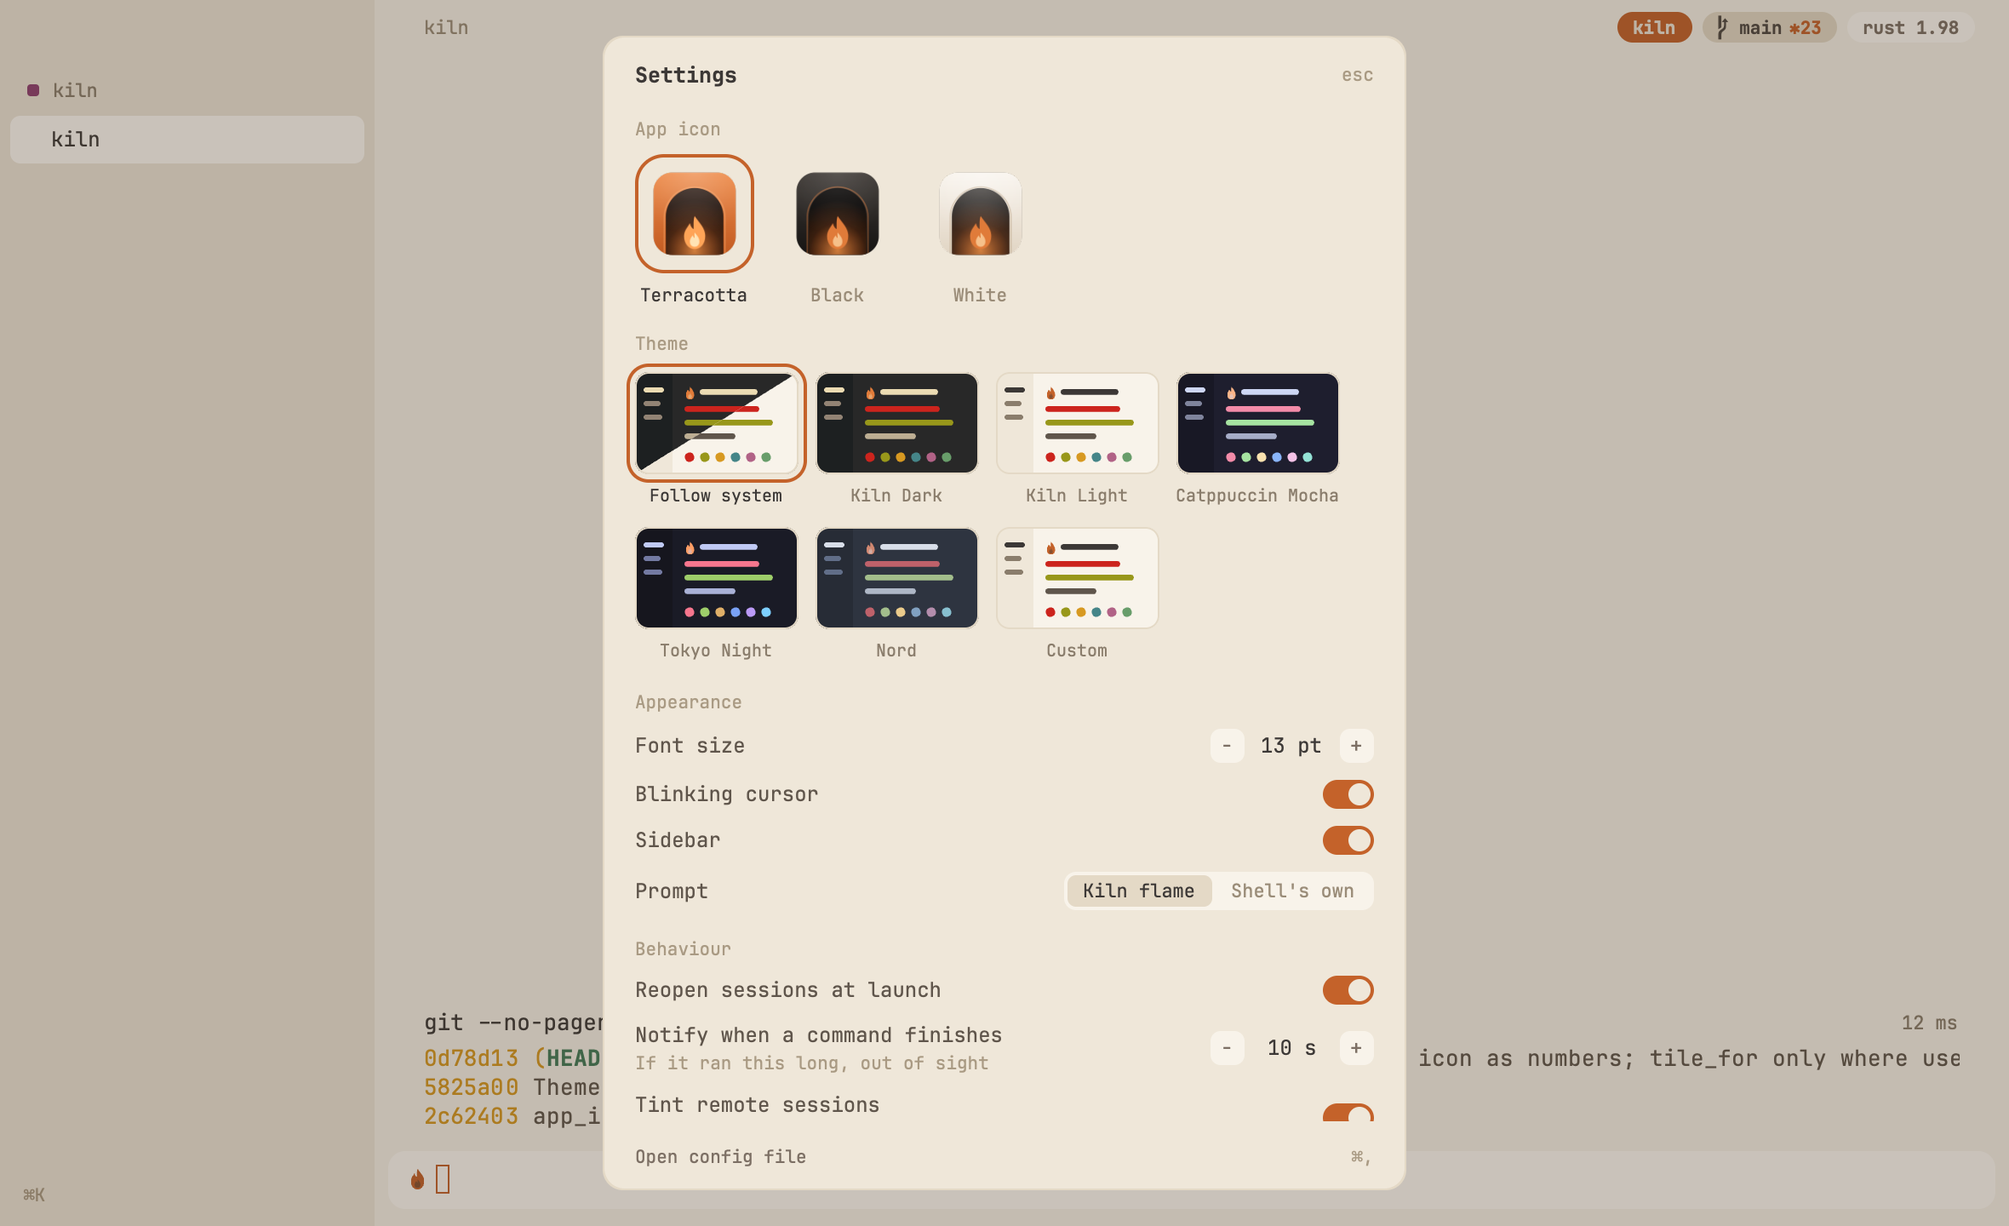
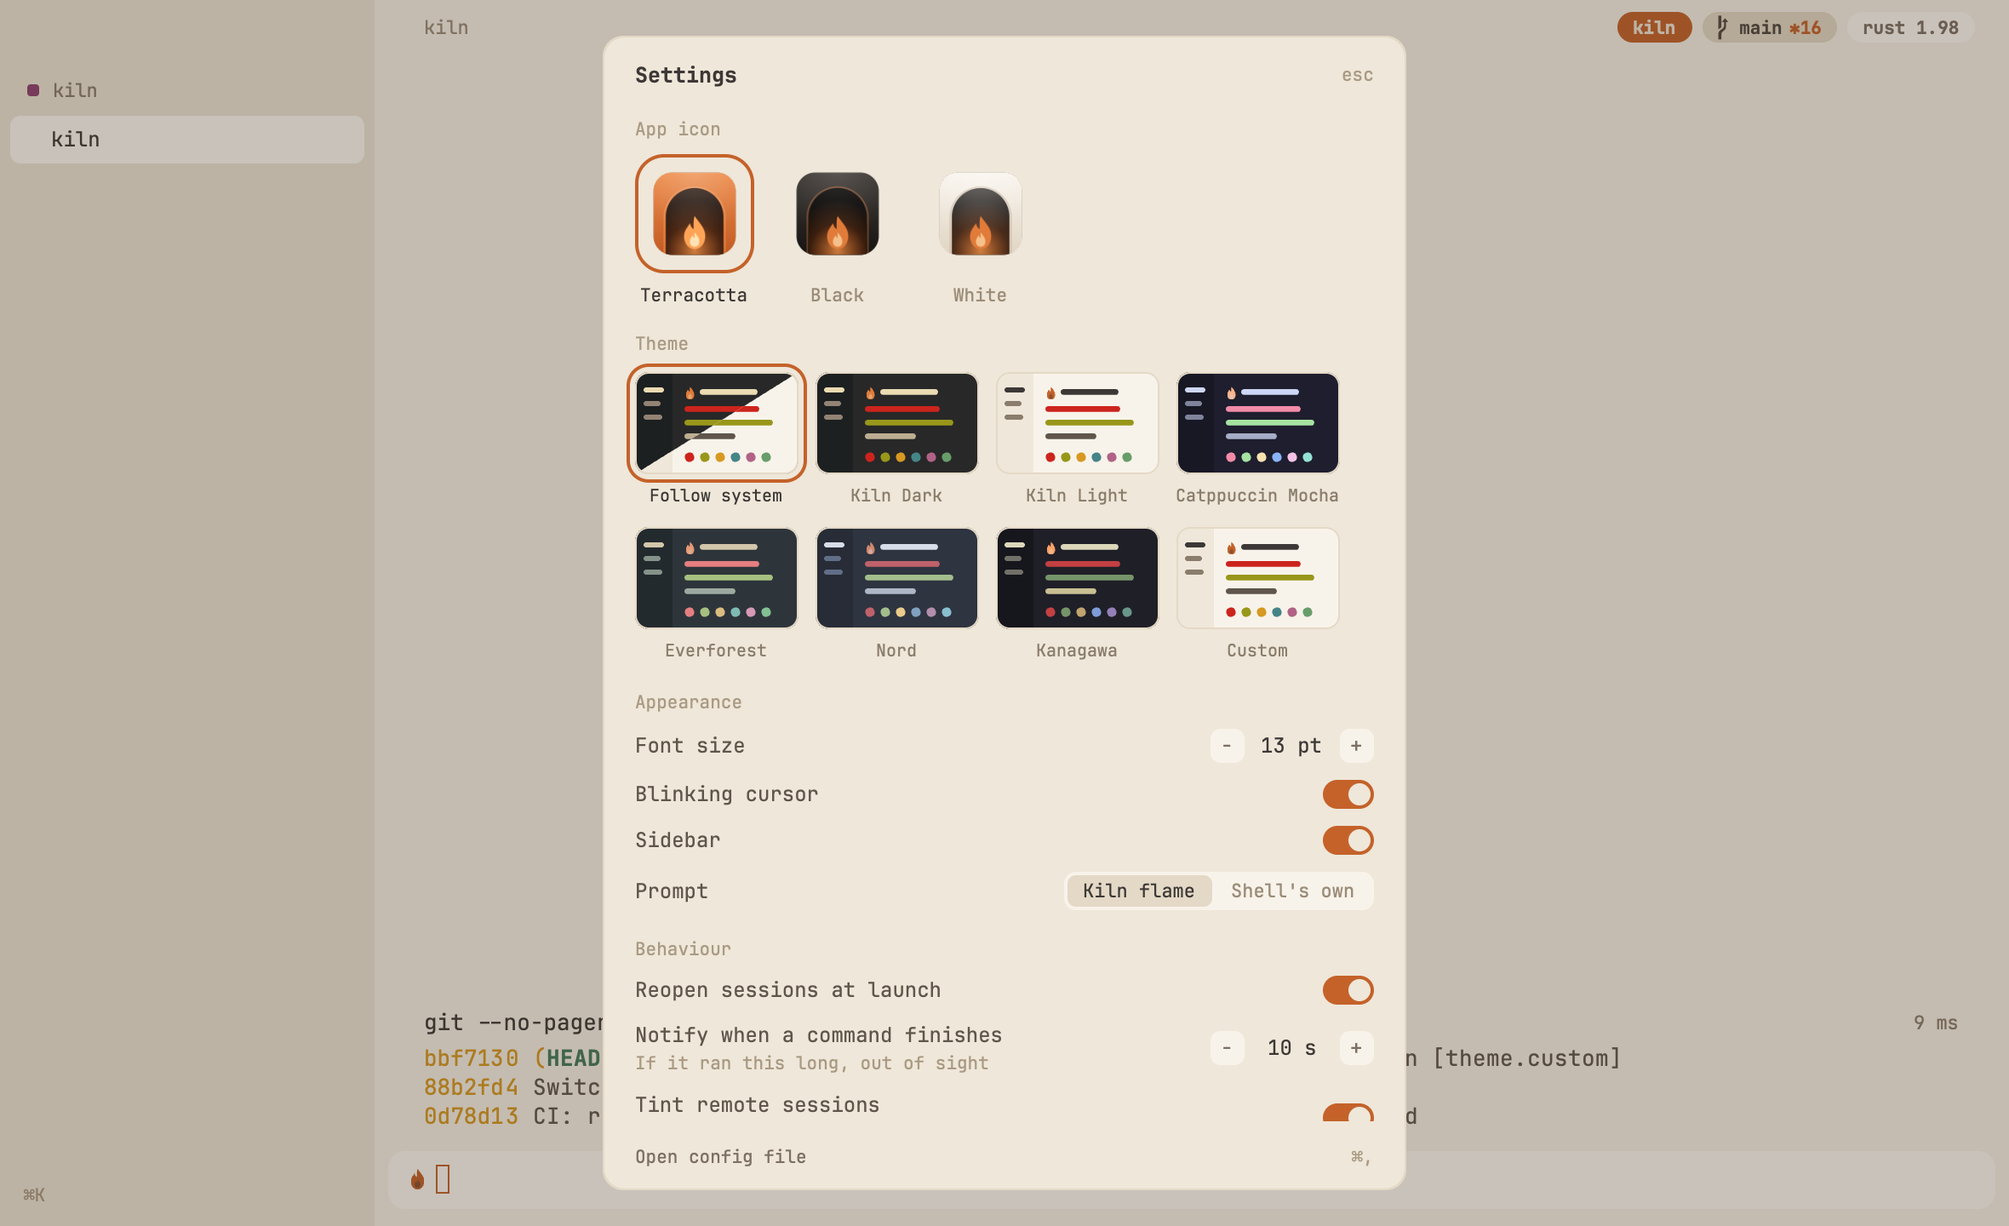
Replace Tokyo Night with Everforest and add Kanagawa
Eight theme cards in two full rows: Follow system, Kiln Dark, Kiln
Light, Catppuccin Mocha, Everforest, Nord, Kanagawa, Custom. Both new
palettes are checked against upstream (two Kanagawa values corrected,
see DECISIONS) and credited in THEME-LICENSES.md. A config naming
tokyo-night falls back to Kiln Dark with the usual warning.

diff --git a/crates/kiln/src/theme.rs b/crates/kiln/src/theme.rs
@@ -73,10 +73,11 @@ pub struct Preset {
 }
 
 /// The built-in themes. Kiln Dark is the default. Catppuccin Mocha
-/// (github.com/catppuccin/catppuccin), Tokyo Night (github.com/folke/tokyonight.nvim) and Nord
-/// (github.com/nordtheme/nord) are MIT-licensed palettes, credited in
+/// (github.com/catppuccin/catppuccin), Everforest (github.com/sainnhe/everforest), Nord
+/// (github.com/nordtheme/nord) and Kanagawa (github.com/rebelot/kanagawa.nvim) are MIT-licensed
+/// palettes, credited in
 /// assets/themes/THEME-LICENSES.md (shipped in every package).
-pub const PRESETS: [Preset; 5] = [
+pub const PRESETS: [Preset; 6] = [
     Preset {
         id: "kiln-dark",
         title: "Kiln Dark",
@@ -111,16 +112,16 @@ pub const PRESETS: [Preset; 5] = [
         ),
     },
     Preset {
-        id: "tokyo-night",
-        title: "Tokyo Night",
+        id: "everforest",
+        title: "Everforest",
         palette: preset(
             [
-                0x1a1b26, 0x16161e, 0x1f2335, 0x292e42, 0x3b4261, 0x545c7e, 0x737aa2, 0xc0caf5,
-                0xa9b1d6, 0xff9e64, 0xf7768e, 0x9ece6a, 0xe0af68,
+                0x2d353b, 0x232a2e, 0x343f44, 0x3d484d, 0x475258, 0x56635f, 0x859289, 0xd3c6aa,
+                0x9da9a0, 0xe69875, 0xe67e80, 0xa7c080, 0xdbbc7f,
             ],
             [
-                0x15161e, 0xf7768e, 0x9ece6a, 0xe0af68, 0x7aa2f7, 0xbb9af7, 0x7dcfff, 0xa9b1d6,
-                0x414868, 0xf7768e, 0x9ece6a, 0xe0af68, 0x7aa2f7, 0xbb9af7, 0x7dcfff, 0xc0caf5,
+                0x475258, 0xe67e80, 0xa7c080, 0xdbbc7f, 0x7fbbb3, 0xd699b6, 0x83c092, 0xd3c6aa,
+                0x56635f, 0xe67e80, 0xa7c080, 0xdbbc7f, 0x7fbbb3, 0xd699b6, 0x83c092, 0xd3c6aa,
             ],
         ),
     },
@@ -135,6 +136,20 @@ pub const PRESETS: [Preset; 5] = [
             [
                 0x3b4252, 0xbf616a, 0xa3be8c, 0xebcb8b, 0x81a1c1, 0xb48ead, 0x88c0d0, 0xe5e9f0,
                 0x4c566a, 0xbf616a, 0xa3be8c, 0xebcb8b, 0x81a1c1, 0xb48ead, 0x8fbcbb, 0xeceff4,
+            ],
+        ),
+    },
+    Preset {
+        id: "kanagawa",
+        title: "Kanagawa",
+        palette: preset(
+            [
+                0x1f1f28, 0x16161d, 0x2a2a37, 0x363646, 0x54546d, 0x54546d, 0x727169, 0xdcd7ba,
+                0xc8c093, 0xffa066, 0xe46876, 0x98bb6c, 0xe6c384,
+            ],
+            [
+                0x16161d, 0xc34043, 0x76946a, 0xc0a36e, 0x7e9cd8, 0x957fb8, 0x6a9589, 0xc8c093,
+                0x727169, 0xe82424, 0x98bb6c, 0xe6c384, 0x7fb4ca, 0x938aa9, 0x7aa89f, 0xdcd7ba,
             ],
         ),
     },
@@ -334,9 +349,11 @@ mod tests {
         assert_eq!(resolve_name(CUSTOM, Some("nord"), true).unwrap().id, "nord");
         assert_eq!(resolve_name(CUSTOM, None, false).unwrap().id, "kiln-dark");
         assert_eq!(
-            resolve_name("tokyo-night", None, false).unwrap().id,
-            "tokyo-night"
+            resolve_name("everforest", None, false).unwrap().id,
+            "everforest"
         );
+        // Tokyo Night was removed: a config naming it gets the fallback.
+        assert!(resolve_name("tokyo-night", None, true).is_none());
         assert!(resolve_name("solarized", None, true).is_none());
     }
 }

diff --git a/crates/kiln/examples/snapshot.rs b/crates/kiln/examples/snapshot.rs
@@ -830,18 +830,18 @@ fn settings(s: &mut Shots) {
         s.pump(Duration::from_millis(600));
         s.shot(&format!("t{i}-{name}"));
     }
-    // Custom from Tokyo Night: the file gets name, base and every colour.
-    s.cx.update(|cx| view.update(cx, |v, cx| v.choose_theme("tokyo-night", cx)));
+    // Custom from Everforest: the file gets name, base and every colour.
+    s.cx.update(|cx| view.update(cx, |v, cx| v.choose_theme("everforest", cx)));
     s.cx.update(|cx| view.update(cx, |v, cx| v.choose_theme(kiln::theme::CUSTOM, cx)));
     s.pump(Duration::from_millis(600));
-    s.shot("t6-custom");
+    s.shot("c1-custom");
     let written = std::fs::read_to_string(&path).unwrap();
-    assert!(written.contains("name = \"custom\"") && written.contains("base = \"tokyo-night\""));
+    assert!(written.contains("name = \"custom\"") && written.contains("base = \"everforest\""));
     assert!(
         written.contains("# My Kiln settings"),
         "the user's comment survives"
     );
-    std::fs::copy(&path, s.out.join("t6-kiln-custom.toml")).unwrap();
+    std::fs::copy(&path, s.out.join("c1-kiln-custom.toml")).unwrap();
     // The picker, on the accent.
     s.cx.update(|cx| {
         view.update(cx, |v, cx| {
@@ -851,7 +851,7 @@ fn settings(s: &mut Shots) {
     s.pump(Duration::from_millis(400));
     // Down to the picker and the terminal colours.
     s.scroll(590., 500., -420.);
-    s.shot("t7-custom-picker");
+    s.shot("c2-custom-picker");
     s.scroll(590., 500., 2000.);
     // A pink accent, then Nord: exactly Nord, nothing left over.
     s.cx.update(|cx| {
@@ -861,7 +861,7 @@ fn settings(s: &mut Shots) {
     });
     s.cx.update(|cx| view.update(cx, |v, cx| v.choose_theme("nord", cx)));
     s.pump(Duration::from_millis(600));
-    s.shot("t8-preset-after-custom");
+    s.shot("c3-preset-after-custom");
     let nord = kiln::theme::preset_by_id("nord").unwrap().palette;
     let on_file = || kiln::config::parse(&std::fs::read_to_string(&path).unwrap()).unwrap();
     assert_eq!(
@@ -870,11 +870,11 @@ fn settings(s: &mut Shots) {
         "a preset is exactly itself"
     );
     assert_eq!(kiln::theme::palette(), nord, "and on screen");
-    std::fs::copy(&path, s.out.join("t8-kiln-nord.toml")).unwrap();
+    std::fs::copy(&path, s.out.join("c3-kiln-nord.toml")).unwrap();
     // Custom again: the pink accent comes back.
     s.cx.update(|cx| view.update(cx, |v, cx| v.choose_theme(kiln::theme::CUSTOM, cx)));
     s.pump(Duration::from_millis(600));
-    s.shot("t9-custom-again");
+    s.shot("c4-custom-again");
     assert_eq!(on_file().palette_for(true).accent, 0xff3d8b);
     assert_eq!(kiln::theme::palette().accent, 0xff3d8b);
     s.cx.update(|cx| view.update(cx, |v, cx| v.choose_theme("kiln-dark", cx)));

diff --git a/crates/kiln/src/settings.rs b/crates/kiln/src/settings.rs
@@ -526,7 +526,9 @@ impl SettingsView {
             Control::Theme => {
                 let name = c.theme.effective_name();
                 let at = CARDS.iter().position(|(id, _)| *id == name).unwrap_or(1) as i32;
-                let next = CARDS[(at + if flip { 1 } else { step }).rem_euclid(7) as usize].0;
+                let next = CARDS
+                    [(at + if flip { 1 } else { step }).rem_euclid(CARDS.len() as i32) as usize]
+                    .0;
                 if next == theme::CUSTOM {
                     self.custom_change()
                 } else {
@@ -1581,8 +1583,8 @@ mod tests {
     #[test]
     fn presets_are_exact_and_custom_comes_back() {
         let nord = theme::preset_by_id("nord").unwrap().palette;
-        // A custom theme from Tokyo Night, then one colour changed.
-        let text = apply(config::TEMPLATE, Change::CustomFrom("tokyo-night"));
+        // A custom theme from Everforest, then one colour changed.
+        let text = apply(config::TEMPLATE, Change::CustomFrom("everforest"));
         let text = apply(&text, Change::Colour(0, 0x123456));
         let custom = config::parse(&text).unwrap();
         assert_eq!(custom.theme.effective_name(), theme::CUSTOM);

diff --git a/crates/kiln/src/config.rs b/crates/kiln/src/config.rs
@@ -143,8 +143,8 @@ pub struct WindowConfig {
 #[derive(Clone, Debug, Default, Deserialize, PartialEq)]
 #[serde(default)]
 pub struct ThemeConfig {
-    /// "kiln-dark" (the default), "kiln-light", "system", "catppuccin-mocha", "tokyo-night",
-    /// "nord" or "custom".
+    /// "kiln-dark" (the default), "kiln-light", "system", "catppuccin-mocha", "everforest",
+    /// "nord", "kanagawa" or "custom".
     pub name: Option<String>,
     /// Where an older Custom theme started (now `[theme.custom] base`).
     pub base: Option<String>,
@@ -446,7 +446,7 @@ check = true
 
 [theme]
 # "kiln-dark", "kiln-light", "system" (dark or light with your OS), "catppuccin-mocha",
-# "tokyo-night", "nord", or "custom" (the colours in [theme.custom] below).
+# "everforest", "nord", "kanagawa", or "custom" (the colours in [theme.custom] below).
 name = "kiln-dark"
 # Any palette colour, as "#rrggbb", on top of the theme. For a theme of your own, put them in
 # [theme.custom] with the preset it starts from (`base = "kiln-dark"`) and set name = "custom":

diff --git a/crates/kiln/src/config_write.rs b/crates/kiln/src/config_write.rs
@@ -172,8 +172,8 @@ mod tests {
         let text =
             "[theme]\nname = \"nord\" # cool\nfg = \"#010203\"\n\n[window]\nsidebar = true\n";
         // Only the name changes; the rest of the table stays as it was.
-        let new = with_setting(text, &["theme", "name"], "tokyo-night".into()).unwrap();
-        assert_eq!(new, text.replace("\"nord\"", "\"tokyo-night\""));
+        let new = with_setting(text, &["theme", "name"], "kanagawa".into()).unwrap();
+        assert_eq!(new, text.replace("\"nord\"", "\"kanagawa\""));
         // Removing keys removes exactly those.
         let cleared =
             with_edits(&new, &[(&["theme", "fg"], None), (&["theme", "bg"], None)]).unwrap();

diff --git a/crates/kiln/src/settings_theme.rs b/crates/kiln/src/settings_theme.rs
@@ -24,13 +24,14 @@ pub const COLOURS: [(&str, &str); 13] = [
 ];
 
 /// The theme cards, in order: the name in kiln.toml and the card's title.
-pub const CARDS: [(&str, &str); 7] = [
+pub const CARDS: [(&str, &str); 8] = [
     (theme::SYSTEM, "Follow system"),
     ("kiln-dark", "Kiln Dark"),
     ("kiln-light", "Kiln Light"),
     ("catppuccin-mocha", "Catppuccin Mocha"),
-    ("tokyo-night", "Tokyo Night"),
+    ("everforest", "Everforest"),
     ("nord", "Nord"),
+    ("kanagawa", "Kanagawa"),
     (theme::CUSTOM, "Custom"),
 ];
 

diff --git a/notes/concept-check.md b/notes/concept-check.md
@@ -78,11 +78,12 @@ those. Comparisons: [Custom](screenshots/settings/compare-themes.png),
 
 | Item | Kiln | Verdict |
 | --- | --- | --- |
-| Seven 96×60 cards, four per row, each drawn from its own palette; Follow system split diagonally; the chosen one ringed | [t0](screenshots/settings/t0-system.png) to [t5](screenshots/settings/t5-nord.png) | Matches |
-| A card applies its theme to everything at once, the pop-up and veil included (light veil on light themes) | [t2 Kiln Light](screenshots/settings/t2-kiln-light.png), [t3](screenshots/settings/t3-catppuccin-mocha.png), [t4](screenshots/settings/t4-tokyo-night.png) | Matches |
-| Custom: Start from, 13 colours with swatch and hex, 16 terminal colours, Reset to base, "Saved to kiln.toml as you edit" | [t6](screenshots/settings/t6-custom.png); the file then holds name, base and every colour ([toml](screenshots/settings/t6-kiln-custom.toml)), the user's comments intact | Matches |
-| Colour picker (hue strip and saturation/value square) | [t7](screenshots/settings/t7-custom-picker.png) | Matches |
-| Custom is one more card: a preset after custom colours is exactly the preset, and Custom again brings the colours back (replaces the "N colours overridden · clear" note) | [t8](screenshots/settings/t8-preset-after-custom.png) Nord with a pink custom accent kept in `[theme.custom]` ([toml](screenshots/settings/t8-kiln-nord.toml)); [t9](screenshots/settings/t9-custom-again.png) Custom again, pink accent back. Tests: `settings::tests::presets_are_exact_and_custom_comes_back`, `colours_from_before_the_custom_table_move_into_it` | Matches |
+| Eight 96×60 cards, four per row (two full rows: Follow system, Kiln Dark, Kiln Light, Catppuccin Mocha / Everforest, Nord, Kanagawa, Custom), each drawn from its own palette; Follow system split diagonally; the chosen one ringed | [t0](screenshots/settings/t0-system.png) to [t6](screenshots/settings/t6-kanagawa.png) | Matches |
+| Everforest and Kanagawa replace Tokyo Night, checked against upstream (two Kanagawa values corrected, see DECISIONS) | [t4 Everforest](screenshots/settings/t4-everforest.png), [t6 Kanagawa](screenshots/settings/t6-kanagawa.png) applied; `theme::tests` (tokyo-night now falls back) | Matches |
+| A card applies its theme to everything at once, the pop-up and veil included (light veil on light themes) | [t2 Kiln Light](screenshots/settings/t2-kiln-light.png), [t3](screenshots/settings/t3-catppuccin-mocha.png), [t4](screenshots/settings/t4-everforest.png) | Matches |
+| Custom: Start from, 13 colours with swatch and hex, 16 terminal colours, Reset to base, "Saved to kiln.toml as you edit" | [c1](screenshots/settings/c1-custom.png); the file then holds name, base and every colour ([toml](screenshots/settings/c1-kiln-custom.toml)), the user's comments intact | Matches |
+| Colour picker (hue strip and saturation/value square) | [c2](screenshots/settings/c2-custom-picker.png) | Matches |
+| Custom is one more card: a preset after custom colours is exactly the preset, and Custom again brings the colours back (replaces the "N colours overridden · clear" note) | [c3](screenshots/settings/c3-preset-after-custom.png) Nord with a pink custom accent kept in `[theme.custom]` ([toml](screenshots/settings/c3-kiln-nord.toml)); [c4](screenshots/settings/c4-custom-again.png) Custom again, pink accent back. Tests: `settings::tests::presets_are_exact_and_custom_comes_back`, `colours_from_before_the_custom_table_move_into_it` | Matches |
 | Palettes are the mockup's values | `theme::tests`, `config::tests::themes_resolve_by_name_with_overrides_on_top` | Matches |
 | Prompt: Kiln flame / Shell's own switches every session, open and new, at its next prompt | [ps1](screenshots/settings/ps1-kiln.png) flame; [ps2](screenshots/settings/ps2-open-session-shell.png) the open session after "Shell's own"; [ps3](screenshots/settings/ps3-new-session-shell.png) a new one; [ps4](screenshots/settings/ps4-new-session-kiln.png), [ps5](screenshots/settings/ps5-open-session-kiln.png) back to the flame in both. Test: `kiln_term/tests/prompt_switch.rs` (zsh, bash; PowerShell in CI) | Matches |
 

diff --git a/README.md b/README.md
@@ -71,8 +71,8 @@ header shows the project, the branch with its change count, and the runtimes the
 ## Settings
 
 **⌘,** (Ctrl+Shift+, on Windows and Linux) opens Settings: the app icon (Terracotta, Black or
-White), the theme (Kiln Dark, Kiln Light, Follow system, Catppuccin Mocha, Tokyo Night, Nord,
-or Custom, with every colour editable), font size, blinking cursor, sidebar, prompt, reopening sessions, notifications, remote
+White), the theme (Kiln Dark, Kiln Light, Follow system, Catppuccin Mocha, Everforest, Nord,
+Kanagawa or Custom, with every colour editable), font size, blinking cursor, sidebar, prompt, reopening sessions, notifications, remote
 tints, Option as Alt (macOS) and update checks. A change applies at once and is written into
 `~/.config/kiln/kiln.toml` (`%APPDATA%\Kiln\kiln.toml` on Windows), changing only that line:
 your comments and other settings stay as they are. A file with an error is shown, never
@@ -101,10 +101,10 @@ check = true                    # once a day; nothing installs without asking
 color = "#83a598"
 
 [theme]
-name = "nord"                   # or kiln-dark, kiln-light, system, catppuccin-mocha, tokyo-night, custom
+name = "nord"                   # or kiln-dark, kiln-light, system, catppuccin-mocha, everforest, kanagawa, custom
 
 [theme.custom]                  # used when name = "custom"; kept while you use a preset
-base = "tokyo-night"            # the preset it starts from
+base = "everforest"             # the preset it starts from
 accent = "#ff3d8b"              # any palette colour, as "#rrggbb"
 ```
 
@@ -154,7 +154,7 @@ Unless you explicitly state otherwise, any contribution you submit for inclusion
 defined in the Apache-2.0 licence, is dual licensed as above, without any additional terms.
 
 Kiln bundles JetBrains Mono (SIL OFL 1.1) with Nerd Fonts patches (MIT). The Catppuccin
-Mocha, Tokyo Night and Nord themes use those projects' palettes (MIT; see
+Mocha, Everforest, Nord and Kanagawa themes use those projects' palettes (MIT; see
 `assets/themes/THEME-LICENSES.md`). Every package carries both Kiln licences, the font and
 theme licences, and `THIRD_PARTY_LICENSES.md` with the licences of all the crates in the
 binary.

diff --git a/notes/DECISIONS.md b/notes/DECISIONS.md
@@ -299,7 +299,7 @@ Newest at the bottom.
   the compositor shows the desktop file's terracotta icon.
 - **Themes** (`[theme] name`): Kiln Dark (the default palette, unchanged), Kiln Light, System
   (Kiln Dark or Light with the OS appearance, followed live through GPUI's window appearance
-  on all three systems; dark where it is not known), Catppuccin Mocha, Tokyo Night and Nord
+  on all three systems; dark where it is not known), Catppuccin Mocha, Everforest, Nord and Kanagawa
   (MIT palettes, credited in `assets/themes/THEME-LICENSES.md`, which every package ships),
   and Custom. They are a table in `theme.rs`, not files. Custom lives in its own table,
   `[theme.custom]` (`base` plus colours), used only when `name = "custom"`: Custom is one more
@@ -325,3 +325,12 @@ Newest at the bottom.
   its style (`OSC 1337;KilnPrompt=kiln|shell`), and Kiln draws the flame only where the shell
   printed Kiln's two blank cells; the blank first line Starship adds is not kept above a shell
   prompt in the input box.
+- **Everforest and Kanagawa replace Tokyo Night**: eight cards, two full rows. A config still
+  naming `tokyo-night` gets Kiln Dark with the unknown-name warning. Everforest is the dark,
+  medium palette (sainnhe/everforest `autoload/everforest.vim`); every value matches upstream.
+  Its bright black is `bg5` (#56635f), where upstream repeats black (#475258), so bright black
+  stays visible. Kanagawa is the wave palette (rebelot/kanagawa.nvim `colors.lua`, `themes.lua`),
+  with two corrections to the values first proposed: faint text #625e5a is the Dragon
+  variant's `dragonBlack6`, so it is wave's `sumiInk6` #54546d (its non-text colour, the same
+  as the dividers); ANSI black #090618 is the old terminal extras, so it is #16161d
+  (`sumiInk0`, what wave's terminal palette uses now).

diff --git a/assets/themes/THEME-LICENSES.md b/assets/themes/THEME-LICENSES.md
@@ -1,10 +1,11 @@
 # Theme palettes
 
-Three of Kiln's built-in themes use colours from these projects, under the MIT licence below.
+Four of Kiln's built-in themes use colours from these projects, under the MIT licence below.
 
 - **Catppuccin Mocha**: <https://github.com/catppuccin/catppuccin>, Copyright (c) 2021 Catppuccin
-- **Tokyo Night**: <https://github.com/folke/tokyonight.nvim>, Copyright (c) 2021 Folke Lemaitre
+- **Everforest** (dark, medium): <https://github.com/sainnhe/everforest>, Copyright (c) 2019 sainnhe
 - **Nord**: <https://github.com/nordtheme/nord>, Copyright (c) 2016-present Sven Greb
+- **Kanagawa** (wave): <https://github.com/rebelot/kanagawa.nvim>, Copyright (c) 2021 Tommaso Laurenzi
 
 ## MIT License
 
